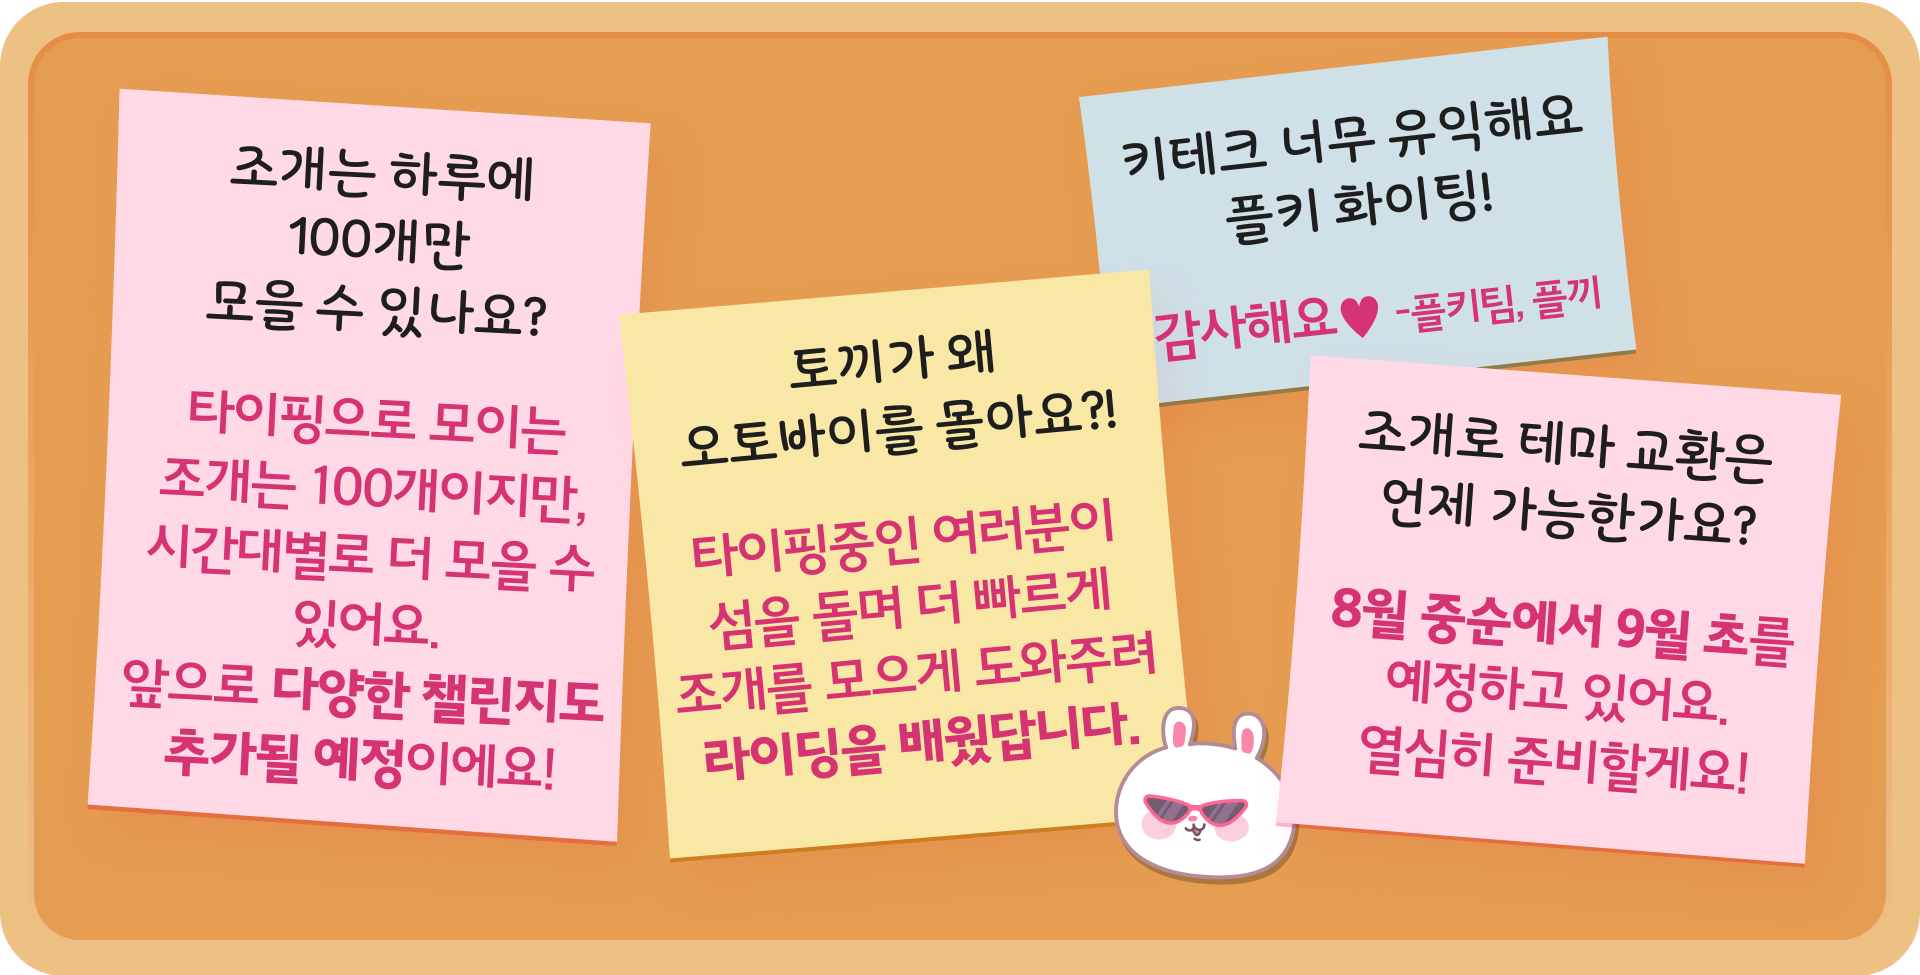
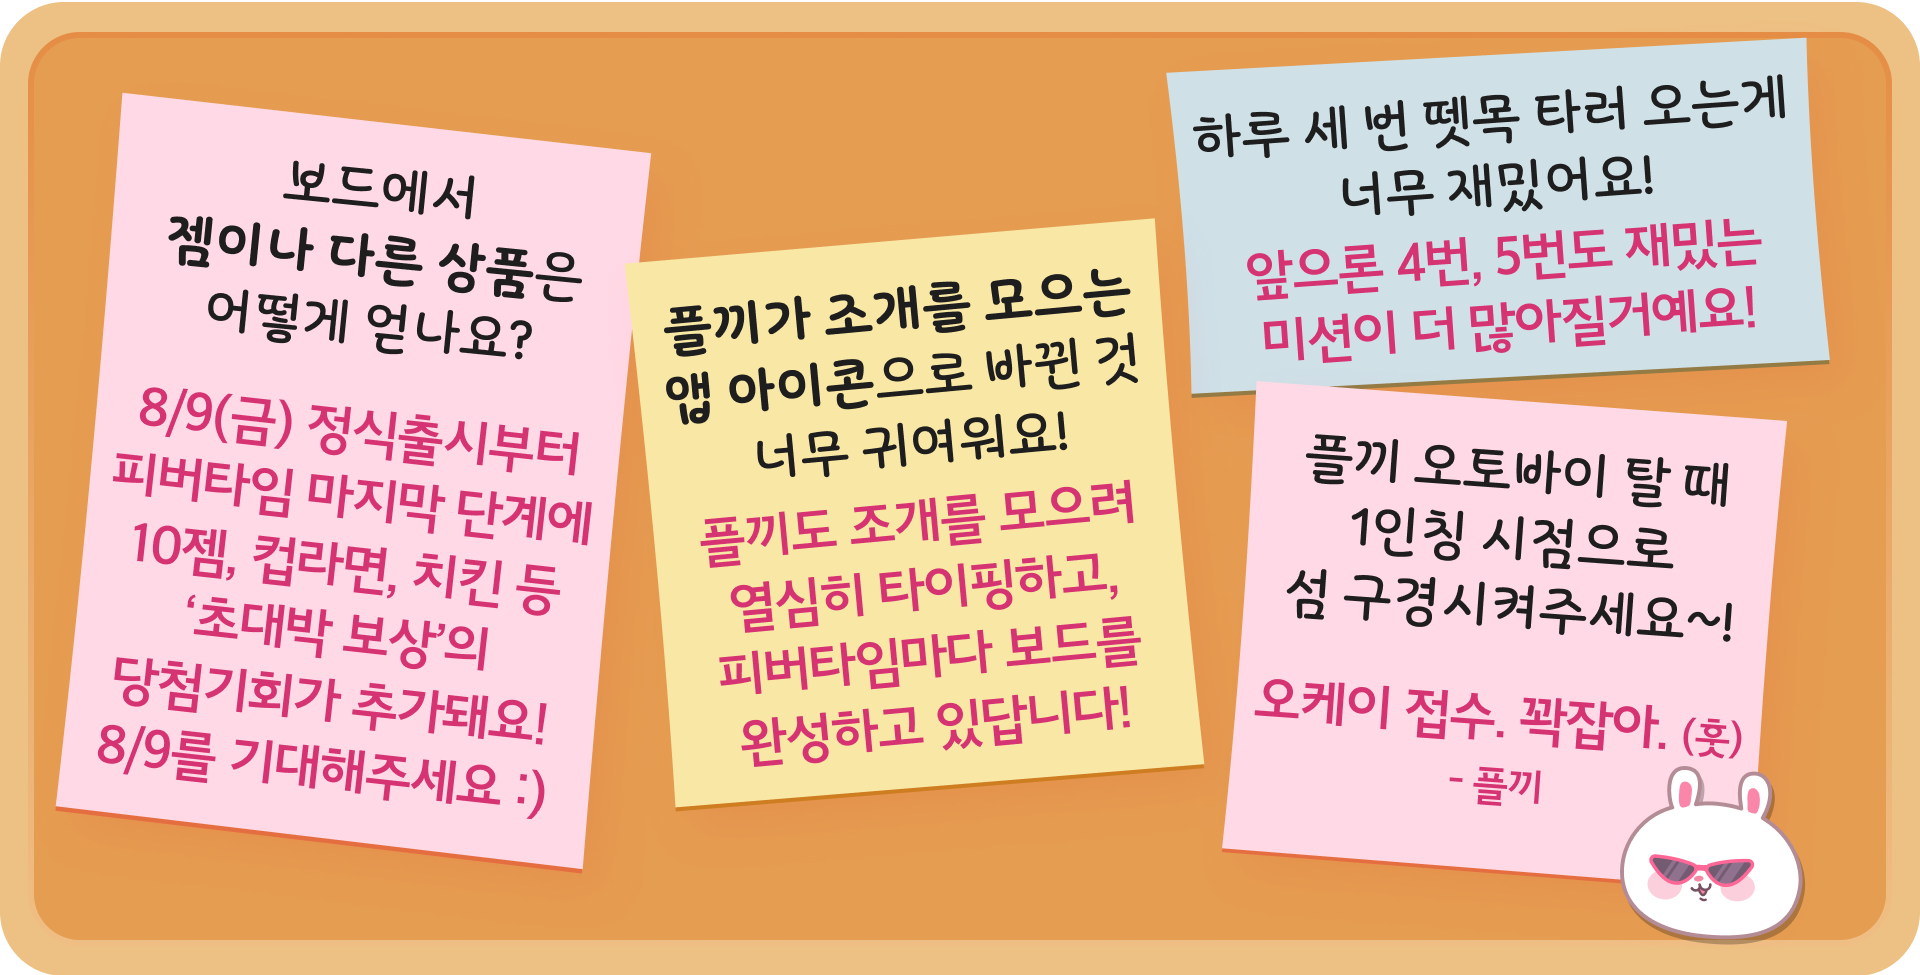
:sparkles: Update readme.md

diff --git a/README.md b/README.md
@@ -3,11 +3,29 @@
 <img src= "./Resource/page-image-1.png">
 <img src= "./Resource/page-image-2.png">
 </body>
-입주민 여러분이 남겨준 쪽지 잘 받았어요. **그 중 몇 개를 플끼가 답변드려요!** 궁금점이 좀 풀리셨나요?
+입주민 여러분의 뜨거운 관심 속, 오늘도 게시판에 남겨진 쪽지를 플끼가 답변드려요!
 
-게시판은 늘 열려있답니다. 또 다른 궁금한 점이 생기면 언제든 쪽지를 남겨주세요. 💌
+이번 답변도 유용하셨나요? 슬슬 얼리버드 기간이 끝나가는데요, 얼리버드 참여기간 동안 닉네임을 변경하면 당첨 혜택을 받을 수 없으니 마지막까지 설정한 닉네임을 유지해주세요!
 
-**다음 쪽지는 8/5(월)**, 혜택3의 ‘만족도 평가(서베이)’와 함께 찾아와 답변을 드릴게요!**
+<body>
+<img src= "./Resource/page-image-12.png">
+</body>
+
+드디어 3번째 혜택이자 마지막 미션인 서베이와 함께 찾아왔어요.
+
+플키섬은 지금 얼리버드 종료와 정식 출시를 앞두고 **어떤 모습으로 플키섬이 더 발전되어야할지**,
+
+입주민 여러분이 **더 많은 조개를 얻을 수 있는 다양한 미션**들은 어떤 형태여야 가장 즐거울지 고민하고 있어요.
+
+전체 <span style="color: #FF417D">**플레이키보드 유저 중 1%를 대변하는 입주민 여러분의 서베이**</span>를 플키섬의 발전에 적극 반영할 예정이에요.
+
+앞서 공지했듯 **성실한 서베이 응답자 50분을 선정해 1,000조개**를 드리니, 서베이를 꼭 놓치지 마세요🐚💖
+
+<body>
+<a href="https://tally.so/r/3qODjk" id="link">
+<img src= "./Resource/page-image-13.png">
+</a>
+</body>
 
 ---
 
